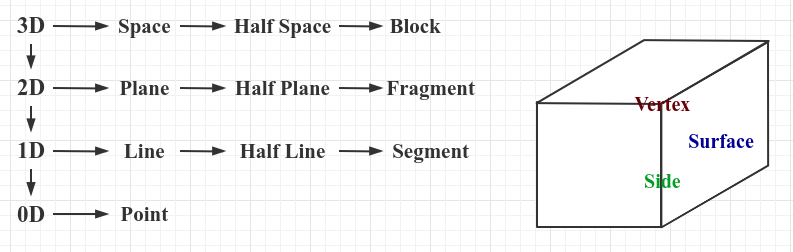
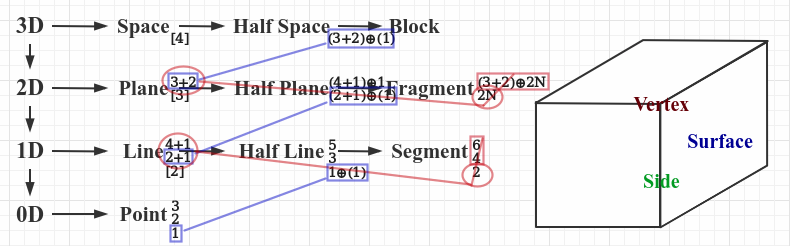
readme updated

diff --git a/ReadMe.md b/ReadMe.md
@@ -1,11 +1,26 @@
-# GeoChain
-
-### A Delicate CPP Package for Computational Geometry. 
+# <center>GeoChain</center> <font size=3><center>A Delicate CPP Package for Computational Geometry</center></font>
 
 <div align=center>
 <img src="https://github.com/ChenZhouUC/GeoChain/blob/master/assets/Concept.png" alt="concept" width="800" height="390" align="center"/>
 </div>
 
+## Euclidean Space
+### Basic Elements
+#### Degree of Freedom
 <div align=center>
 <img src="https://github.com/ChenZhouUC/GeoChain/blob/master/assets/Elements.png" alt="elements" width="600" height="190" align="center"/>
 </div>
+Here the degree of freedom (DOF) for each kind of geometric elements stands for the total meaningful cardinality in the designated Euclidean Space. Please pay attention to the below inequality.
+<div align=center>
+<img src="https://github.com/ChenZhouUC/GeoChain/blob/master/assets/DOF.gif" alt="DOF" align="center"/>
+</div>
+Here we distinguished the parameter DOF(ParDOF) from DOF. ParDOF represents the necessary (optimized) number of parameter we need to describe the certain element, which could be slightly larger than the real DOF.
+
+Now we present some principles which might help calculating DOF.
+<div align=center>
+<img src="https://github.com/ChenZhouUC/GeoChain/blob/master/assets/oplus.gif" alt="oplus" align="center"/>
+</div>
+<div align=center>
+<img src="https://github.com/ChenZhouUC/GeoChain/blob/master/assets/plus.gif" alt="plus" align="center"/>
+</div>
+Moreover, (x) and [x] could both be viewed as 0. In this scope, (x) means there might be several but finite candidates for each of x parameters, while [x] stands for only one candidate value (most probably 0) for each x parameters.
